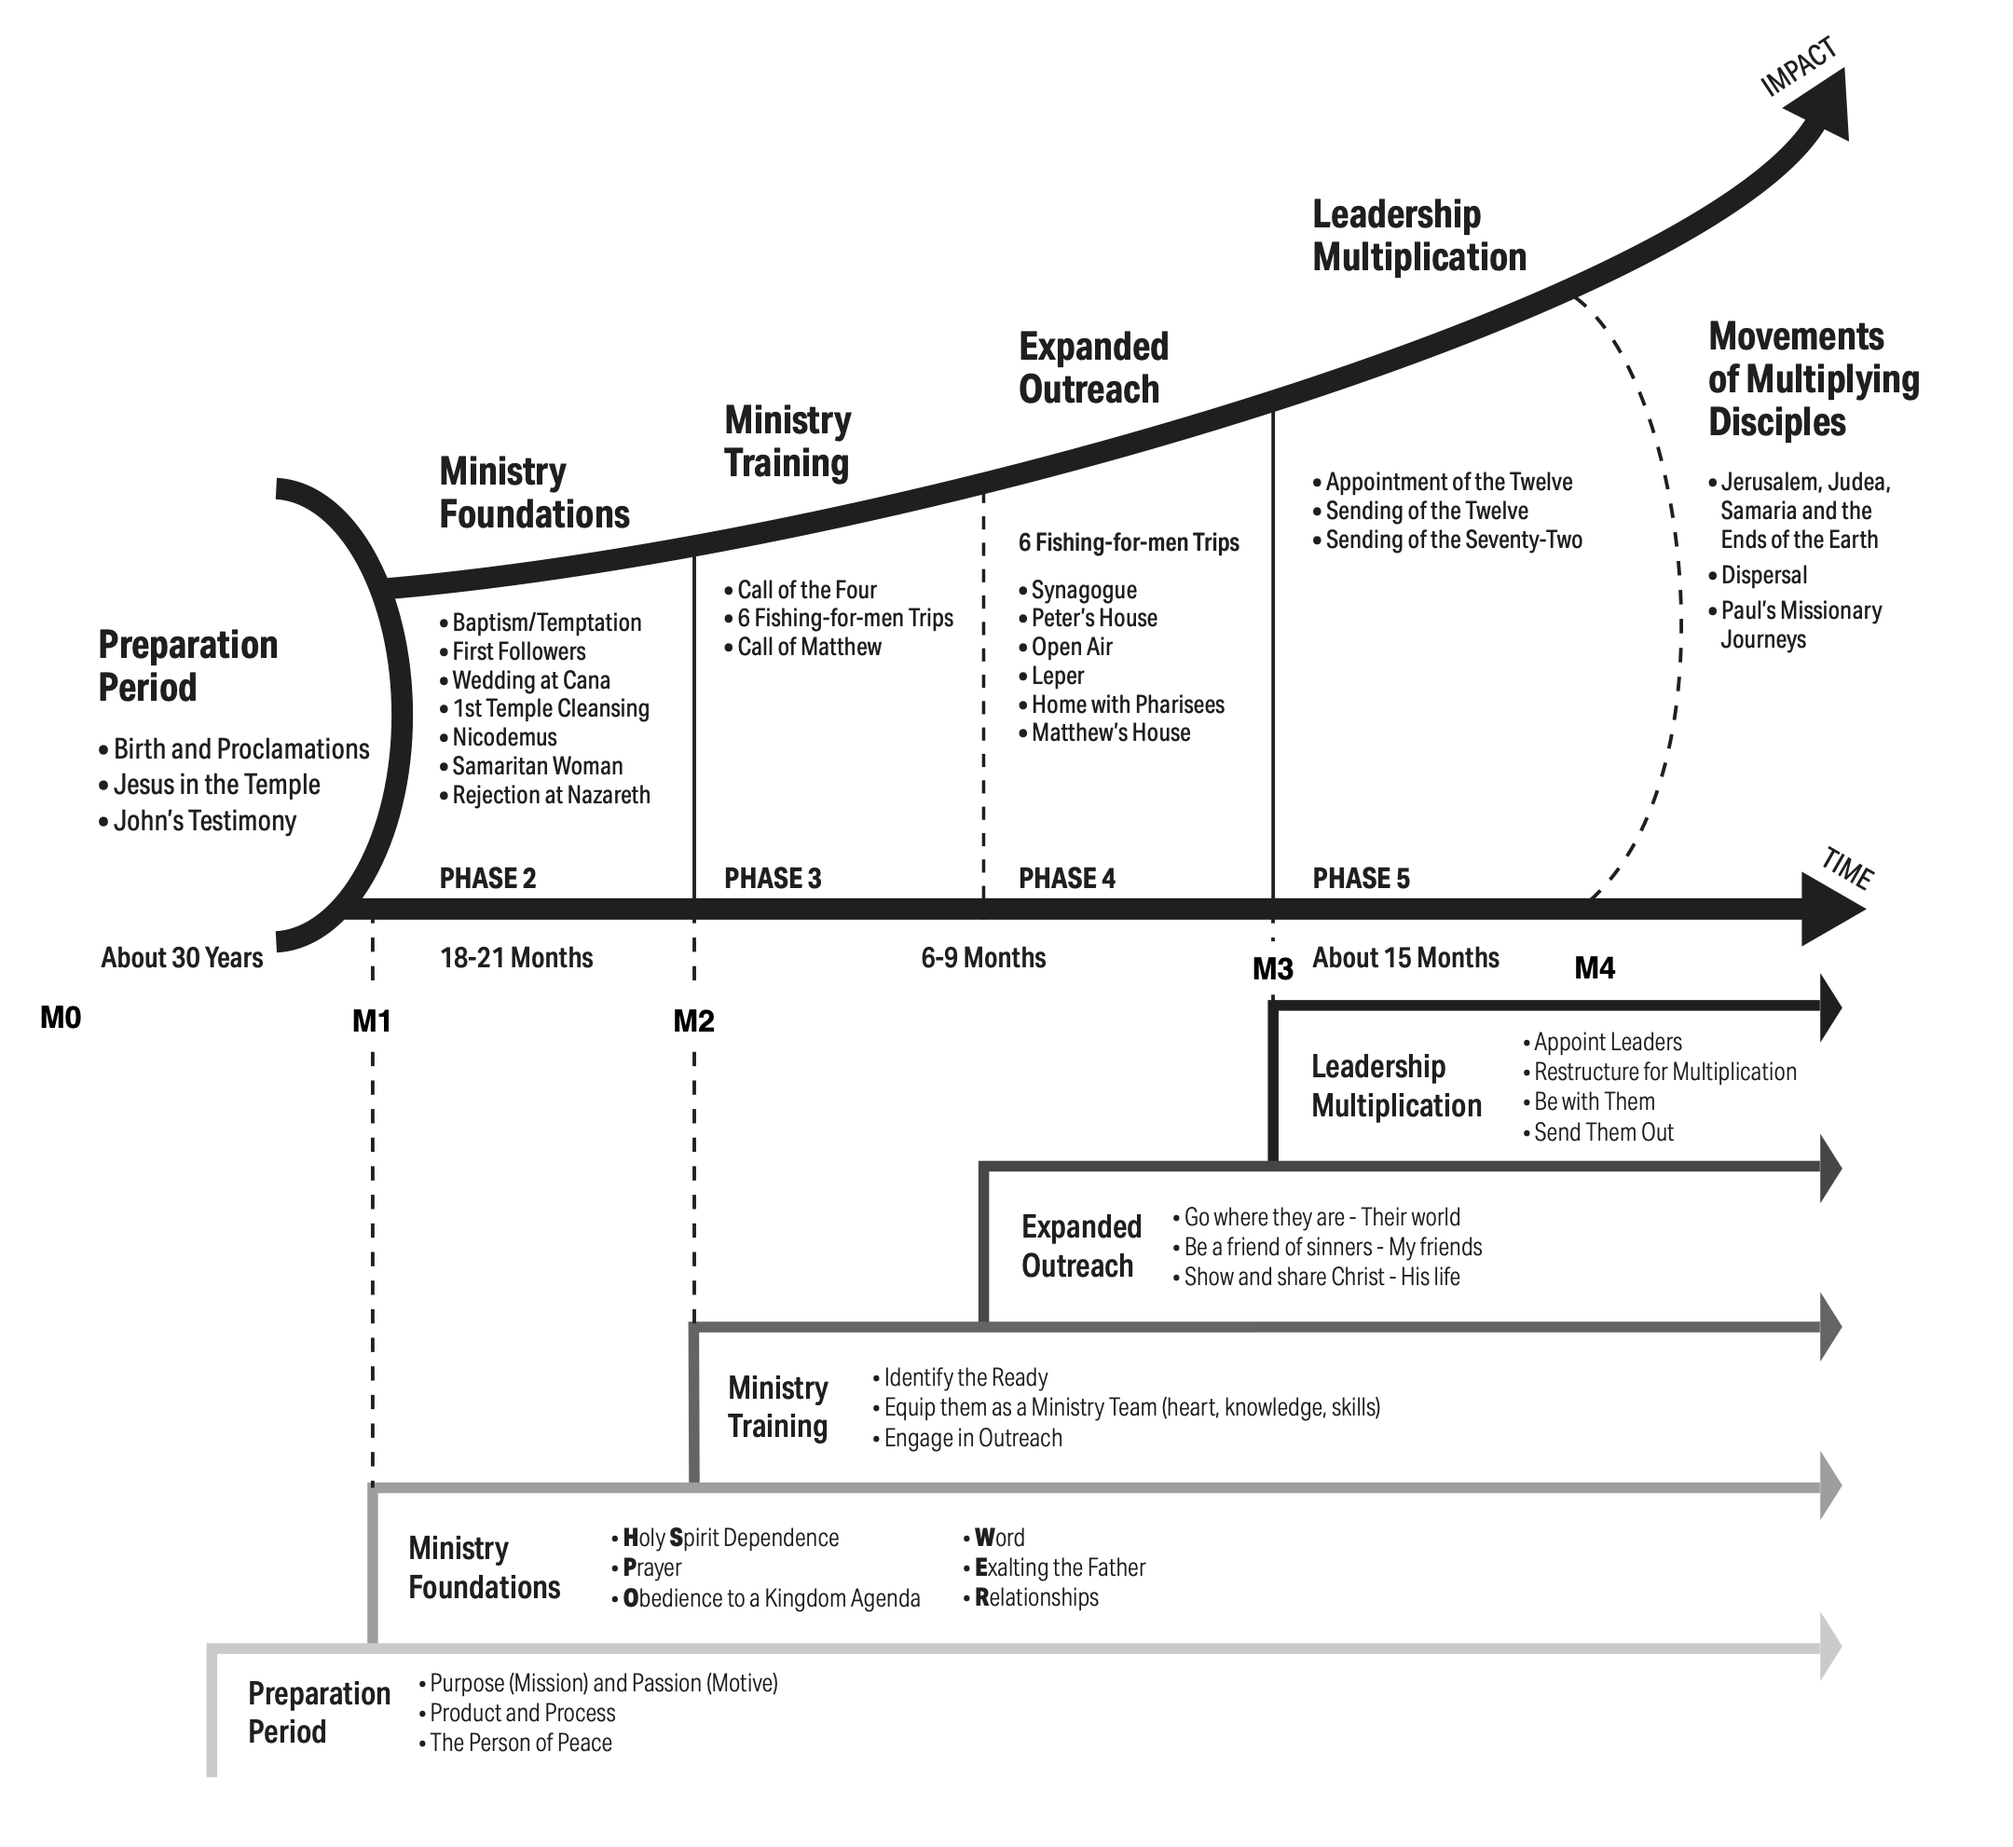
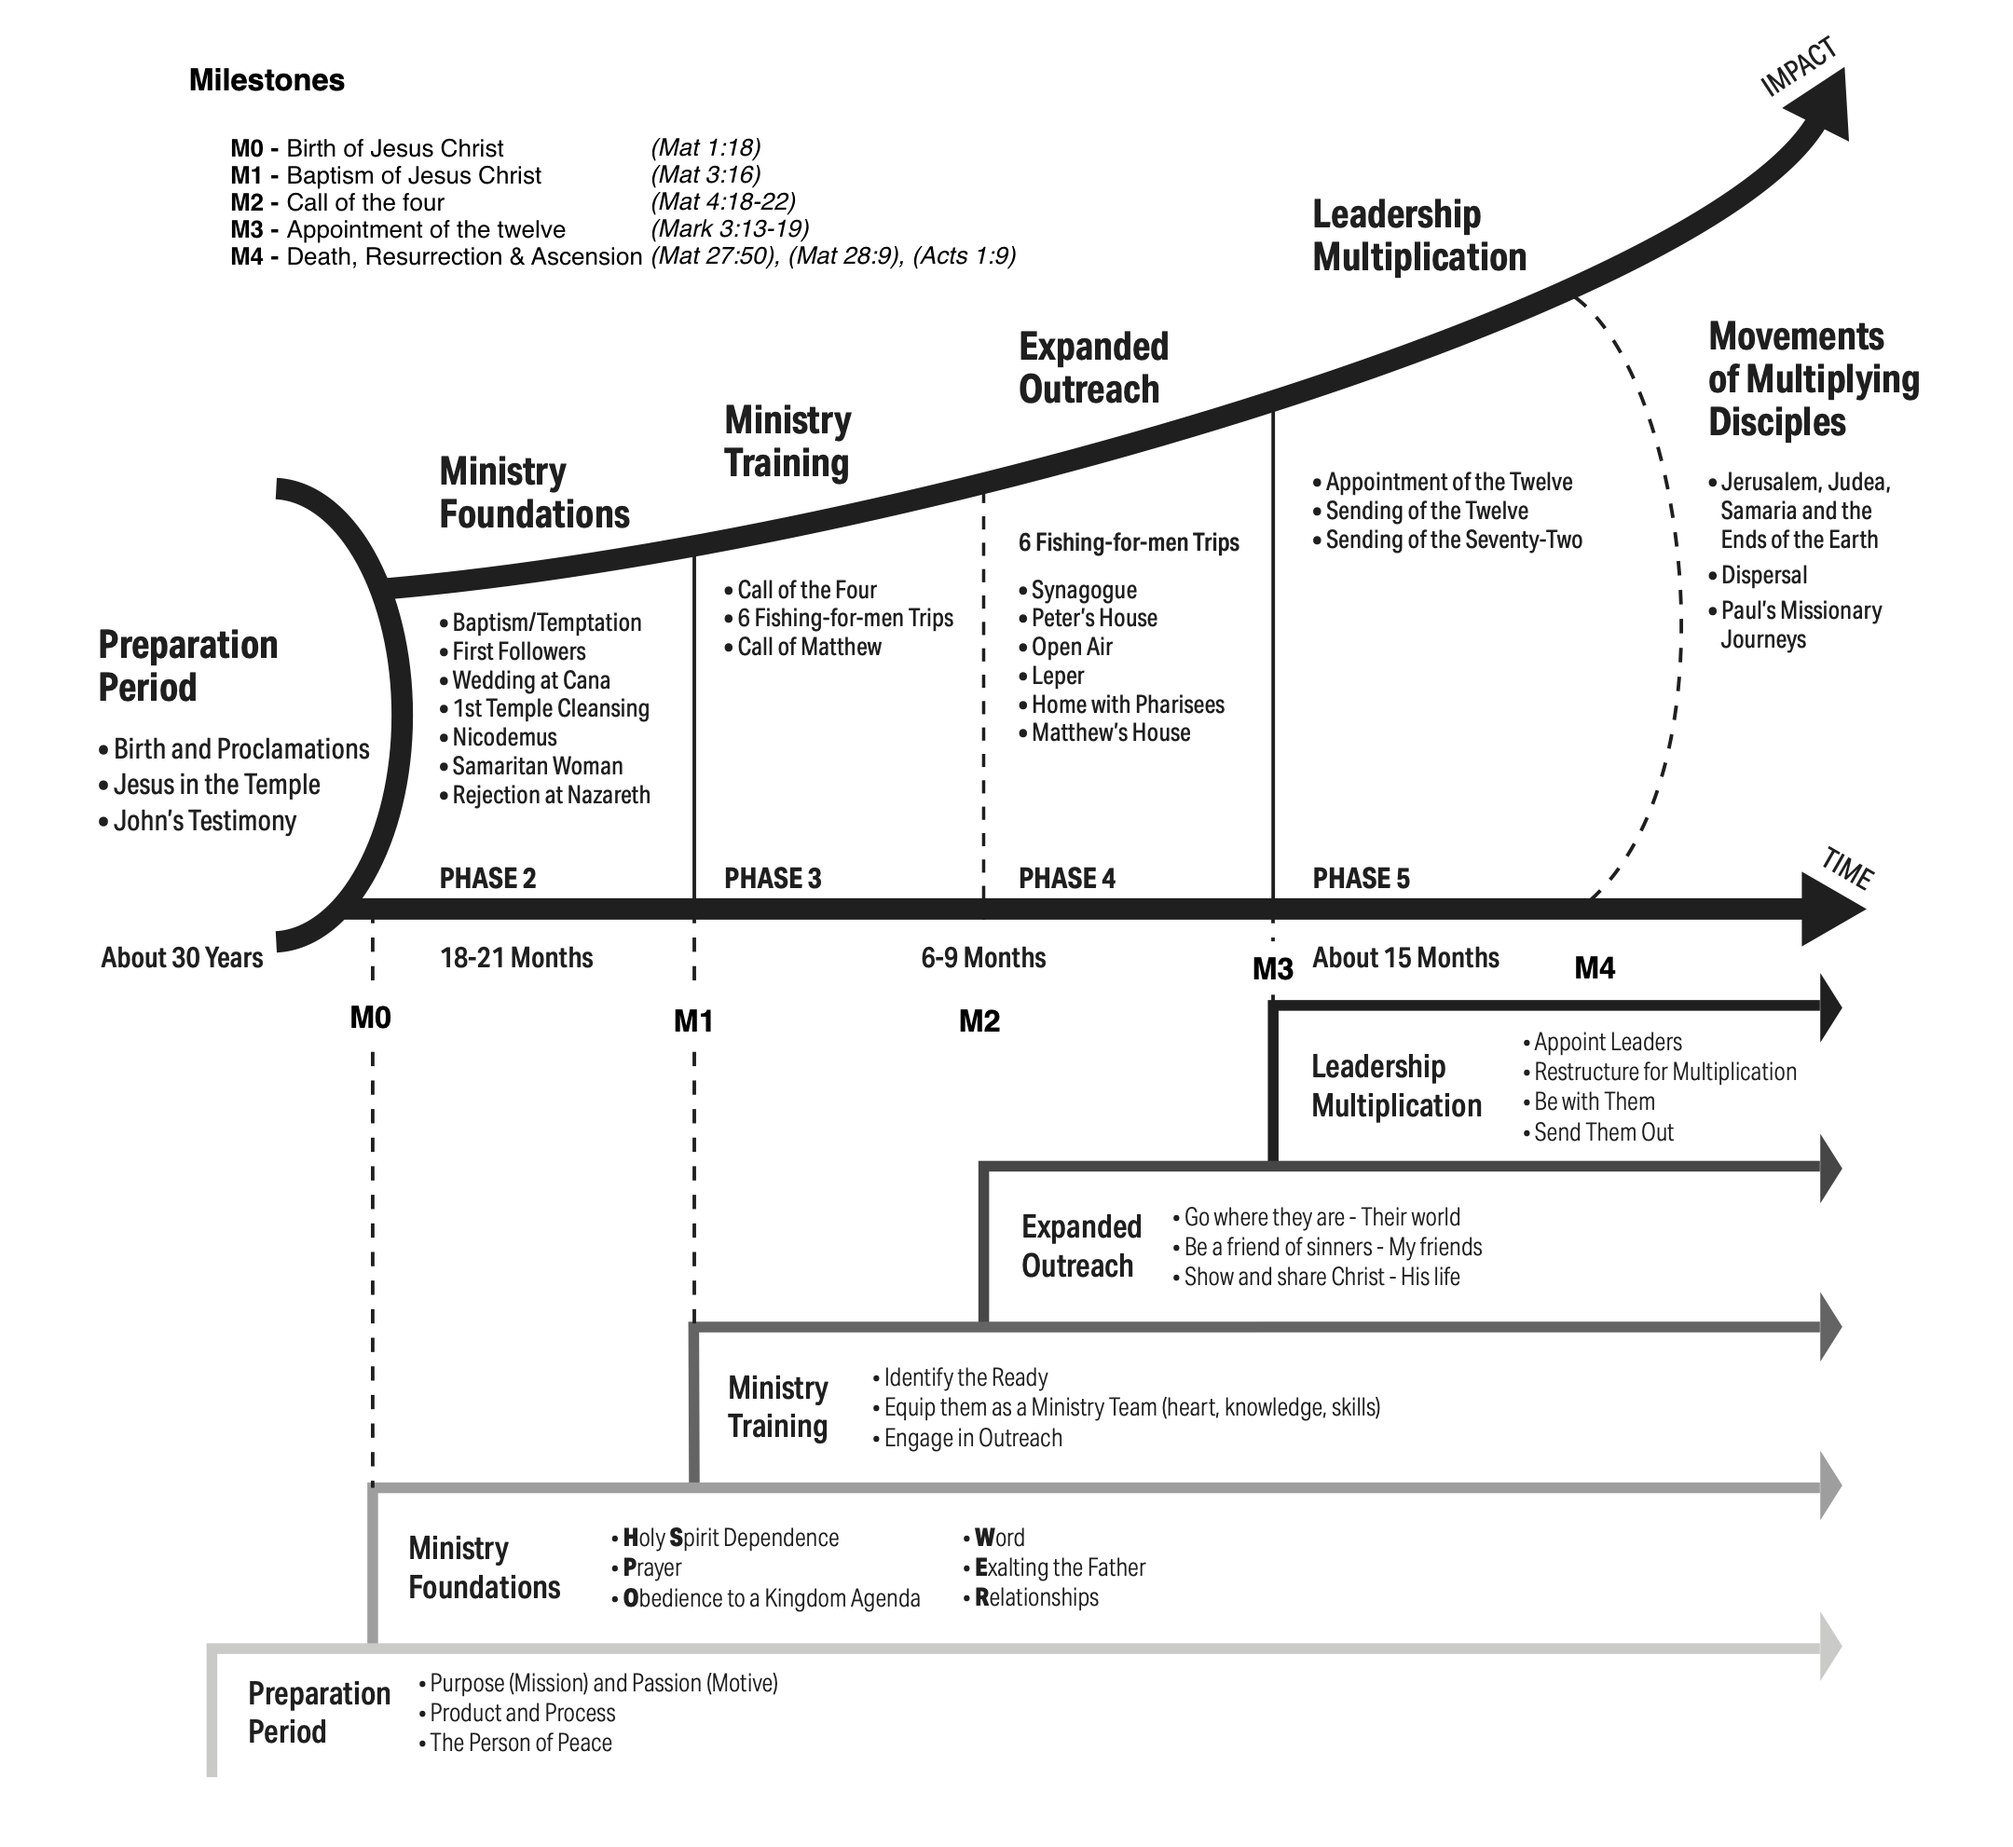
bib_dis - update - ramp_chart.png

Changed region(s): [[0.0931, 0.0308, 0.4653, 0.1539], [0.4653, 0.5232, 0.4963, 0.554]]

diff --git a/bib_dis/main.md b/bib_dis/main.md
@@ -91,7 +91,7 @@ The two charts previously discussed are related through the diagram shown in [Fi
 - _Phase 4_: Expanded outreach
 - **M3** - Appointment of the twelve [(Mark 3:13-19)](https://my.bible.com/bible/59/MRK.3.13-19)
 - _Phase 5_: Leadership multiplication
-- **M4** - Death & Resurrection [(Matthew 27:50)](https://my.bible.com/bible/59/MAT.27.50), [(Matthew 28:9)](https://my.bible.com/bible/59/MAT.28.9)
+- **M4** - Death, Resurrection & Ascension [(Matthew 27:50)](https://my.bible.com/bible/59/MAT.27.50), [(Matthew 28:9)](https://my.bible.com/bible/59/MAT.28.9), [(Acts 1:9)](https://my.bible.com/bible/59/ACT.1.9)
 - _Phase 6_: The **Movement** of Multiplying disciples
 
 **Jesus's callings and people stages while moving through the disciple-maker path**: [(Figure 3)](#arrow_chart)
@@ -305,9 +305,9 @@ No preparation is key of this method: **rely on the power of the Spirit**!
 | M1  | project specification  | 10 Oct 2022 | Write the project concept                                              |
 | M2  | design invitation      | 29 Oct 2022 | Design an invitation to the bible discovery and set-up a contact email |
 | M3  | peer-review            | 6 Nov 2022  | Ask for feedback from selected peers                                   |
-| M4  | project launch         | ?           | Take it to the lost                                                    |
+| M4  | project launch         | ?           | Blessing of the Lord                                                   | 
 | M5  | project implementation | 8 Nov 2022  | Start the first Alef sessions                                          |
-| M6  | material production    | ?           | Print invitations, order mini John's Gospel                            | 
+| M6  | material production    | ?           | Print invitations, order mini John's Gospel                            |
 
 ------------------------------------------------------------------
 # The Street Bible Discovery
